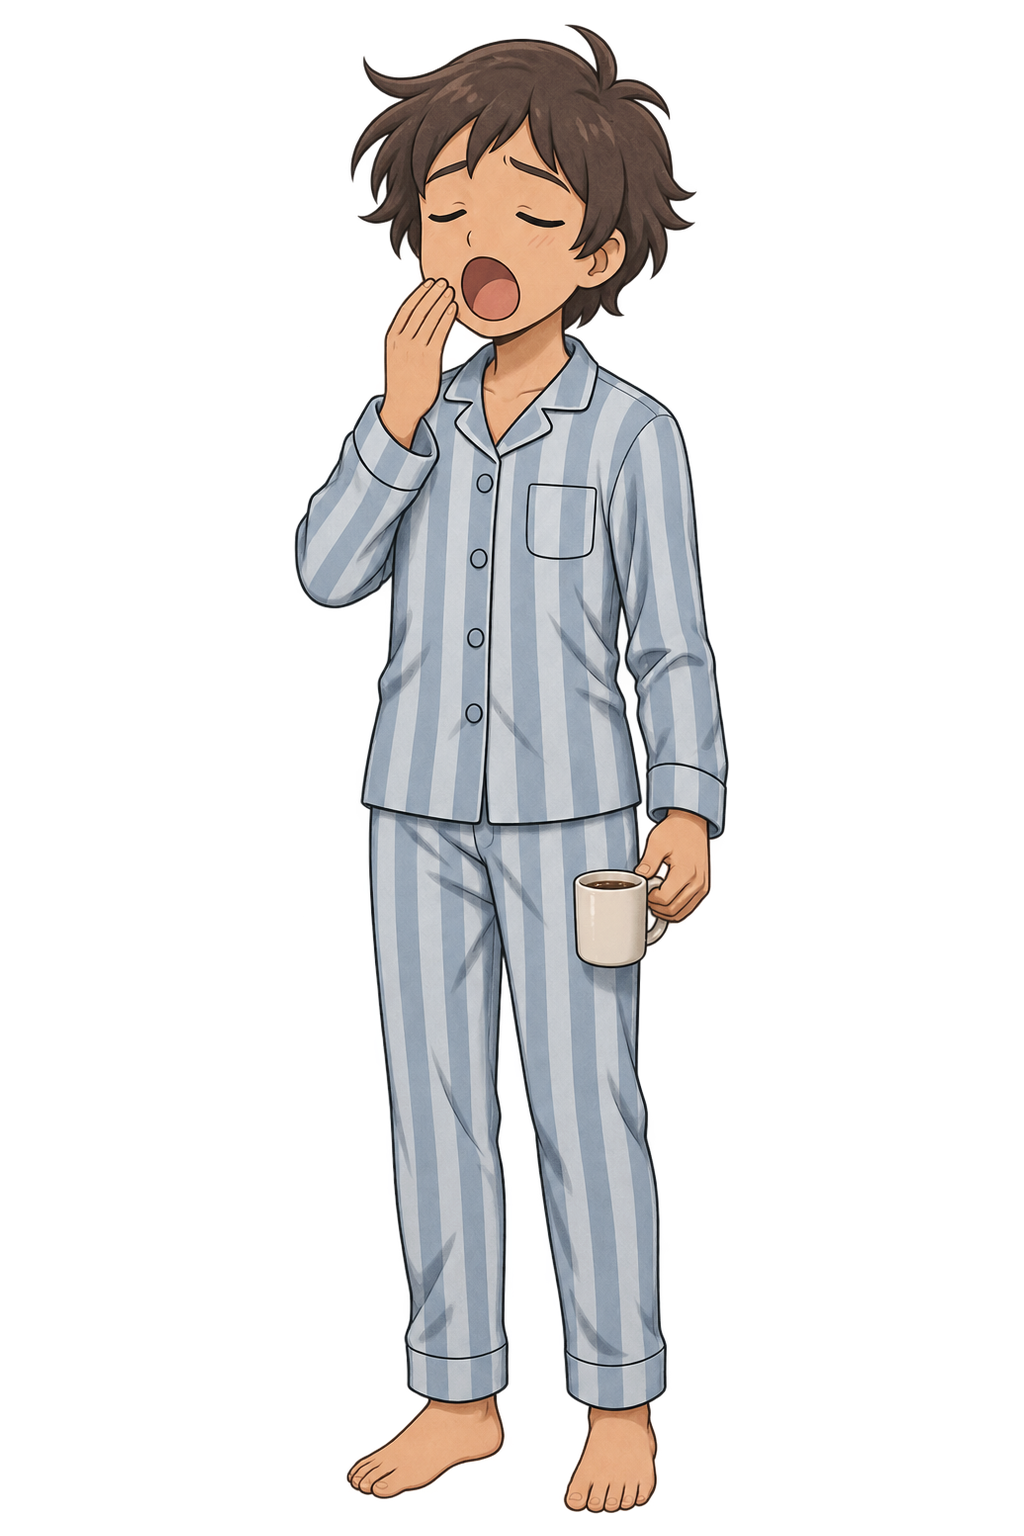
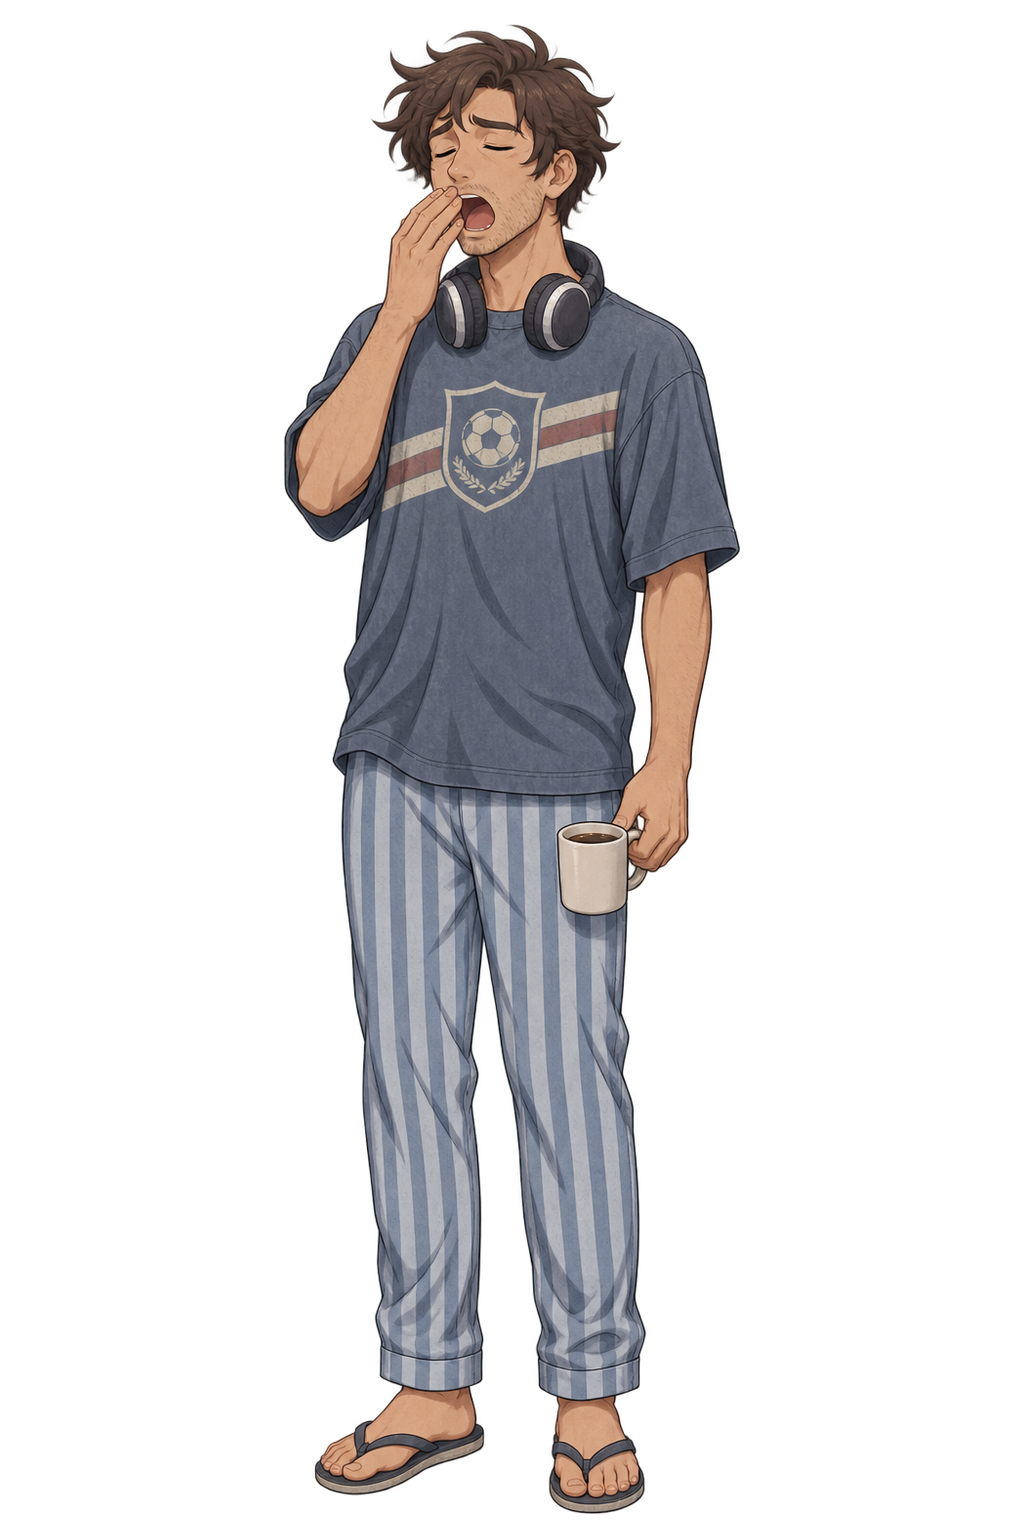
Refaz colega de república e Dra. Nathalia como adultos, adiciona expressões às doutoras e corrige pose séria do César

Changed region(s): [[0.25, 0.0, 0.7188, 1.0]]

diff --git a/tools/arte/galeria/modelo.html b/tools/arte/galeria/modelo.html
@@ -111,7 +111,7 @@ textarea { width: 100%; min-height: 140px; font: 14px/1.5 var(--mono); color: va
 
 <script>
 const DADOS = /*DADOS*/null;
-const CHAVE = "assets-revisao-v2";
+const CHAVE = "assets-revisao-v3";
 let marcados = new Set(), notas = "";
 try { const s = JSON.parse(localStorage.getItem(CHAVE) || "{}"); marcados = new Set(s.m || []); notas = s.n || ""; } catch (e) {}
 function guardar() { try { localStorage.setItem(CHAVE, JSON.stringify({ m: [...marcados], n: notas })); } catch (e) {} }

diff --git a/tools/arte/montar_saude_v4.py b/tools/arte/montar_saude_v4.py
@@ -1,0 +1,113 @@
+"""Lote 4 da Saúde (feedback do usuário em 2026-11-02, segunda revisão da galeria).
+
+Feedback: "amigo e doutora [Nathalia] ainda parecem muito jovens e genéricos e não combinam muito bem com o estilo.
+A outra doutora está boa, mas talvez as 2 doutoras devessem ter mais alguma variação de expressão além da neutra.
+Developer [César] serious está segurando o celular de forma estranha; com os braços cruzados, pode assumir que o
+celular está no bolso."
+
+- amigo e doutora_2: redesenho com rosto e corpo adultos e traços próprios (não genéricos);
+- doutora_1 e doutora_2: poses novas serious, thinking e positive, com o rosto descrito por partes e uma referência
+  de expressão das rotas novas (mesma técnica do lote v3);
+- developer_test serious: braços cruzados, celular no bolso.
+
+Gera docs/arte/prompts/estilo-c-saude-v4.json e estilo-c-saude-v4-saidas.json. Rode a partir da raiz:
+    python tools/arte/montar_saude_v4.py
+"""
+import json, os
+
+RAIZ = os.path.abspath(os.path.join(os.path.dirname(__file__), "..", ".."))
+IMG = os.path.join(RAIZ, "game", "images").replace("\\", "/")
+REF = os.path.join(RAIZ, "docs", "arte", "referencias").replace("\\", "/")
+CH = f"{IMG}/characters"
+
+ESTILO = (
+    "Estilo C, IGUAL ao das imagens de referência de estilo: proporção de ADULTO com ~7,5 cabeças, ombros e mãos "
+    "naturais, o mesmo nível de detalhe nas roupas (costuras, dobras, sombras suaves de 1 tom), contorno escuro com "
+    "leve textura de lápis, cores suaves e levemente dessaturadas. Rosto de adulto: olhos de tamanho natural (não "
+    "olhos grandes de anime), maçãs do rosto e mandíbula definidas, sobrancelhas marcadas e expressivas. Nem realista "
+    "demais nem cartunesco. Sprite de visual novel: corpo inteiro em pé, do topo da cabeça aos pés, centralizado, "
+    "fundo totalmente transparente (PNG com alfa), sem sombra no chão, sem texto, retrato 2:3."
+)
+
+# Redesenhos: (id, imagem atual, prompt de identidade, referências de estilo/proporção)
+REDESENHOS = [
+    ("amigo__base", f"{CH}/amigo/base.png",
+     "A PRIMEIRA imagem é o colega de república do protagonista, mas ele está com cara de criança. Redesenhe-o como "
+     "um ADULTO de uns 26 anos, que faz mestrado e divide o apartamento: altura e ombros de adulto, rosto mais longo, "
+     "barba por fazer, cabelo castanho bagunçado de quem acabou de acordar, olheiras leves. Mantenha a cena: ele "
+     "boceja cobrindo a boca com uma mão e segura uma caneca de café na outra. Roupa com personalidade: calça de "
+     "pijama listrada azul (a base de hoje), camiseta larga e desbotada de um time de futebol de bairro (estampa sem "
+     "texto legível), chinelo de dedo, fone de ouvido grande pendurado no pescoço. As imagens seguintes são só "
+     "referência de ESTILO e PROPORÇÃO (não copie as pessoas delas).",
+     [f"{REF}/estilo-c-emily.png", f"{CH}/co_dev/neutral.png", f"{CH}/st_techlead/neutral.png"]),
+    ("doutora_2__neutral", f"{CH}/doutora_2/neutral.png",
+     "A PRIMEIRA imagem é a Dra. Nathalia, mas ela está jovem demais e genérica. Redesenhe-a como uma médica "
+     "pneumologista de uns 32 anos, prática e direta, que atende muitos pacientes por dia: rosto adulto com maçãs do "
+     "rosto definidas, olhos de tamanho natural, sardas leves, cabelo loiro-escuro preso num coque baixo com mechas "
+     "soltas e uma caneta enfiada no coque, brincos pequenos de pérola. Roupa: pijama cirúrgico verde-água por baixo "
+     "do jaleco branco aberto, estetoscópio no pescoço, máscara cirúrgica ABAIXADA no pescoço (rosto inteiro à "
+     "mostra), crachá do Instituto no jaleco, tênis brancos confortáveis e um tablet na mão. Pose: em pé, relaxada, "
+     "olhar direto, leve sorriso de canto. As imagens seguintes são só referência de ESTILO e PROPORÇÃO (não copie "
+     "as pessoas delas).",
+     [f"{REF}/estilo-c-emily.png", f"{CH}/doutora_1/neutral.png", f"{CH}/co_mentora/neutral.png"]),
+]
+
+# Poses novas das doutoras: corpo, rosto descrito por partes, referência de expressão (outra pessoa).
+POSES = {
+    "serious": ("braços cruzados ou segurando o objeto dela junto ao peito, peso numa perna, postura firme",
+                "sobrancelhas BAIXAS e franzidas, inclinadas para o centro (preocupação); olhar firme direto para a "
+                "frente; boca fechada em linha reta, cantos levemente para baixo", f"{CH}/st_qualidade/serious.png"),
+    "thinking": ("uma mão no queixo, a outra segurando o objeto dela, cabeça levemente inclinada",
+                 "uma sobrancelha erguida e a outra franzida (assimétricas); olhos semicerrados olhando para CIMA e "
+                 "para o LADO, não para a frente; lábios comprimidos e puxados para um canto", f"{CH}/st_mentora/thinking.png"),
+    "positive": ("explicando algo com uma mão aberta estendida à frente, a outra segurando o objeto dela",
+                 "sobrancelhas erguidas; olhos apertados de sorriso; sorriso aberto e caloroso mostrando os dentes",
+                 f"{CH}/st_mentora/neutral.png"),
+}
+DOUTORAS = {
+    "doutora_1": ("Dra. Michelle", "cabelo cacheado grisalho, jaleco branco, camisa lilás, calça bege, crachá do "
+                  "Instituto e prancheta", f"{CH}/doutora_1/neutral.png", None),
+    "doutora_2": ("Dra. Nathalia", "coque baixo loiro-escuro com caneta, sardas, pijama cirúrgico verde-água, jaleco, "
+                  "estetoscópio, máscara abaixada no pescoço e tablet", None, "doutora_2__neutral"),
+}
+
+tarefas, saidas = [], []
+for tid, atual, identidade, refs in REDESENHOS:
+    tarefas.append({"id": tid, "prompt": f"{identidade}\n\n{ESTILO}", "refs": [atual] + refs})
+    cid, pose = tid.split("__")
+    saidas.append({"id": tid, "kind": "sprite", "dest": f"images/characters/{cid}/{pose}.png",
+                   "portrait": f"images/characters/{cid}/portrait.png"})
+
+for cid, (nome, objetos, ancora_arquivo, ancora_tarefa) in DOUTORAS.items():
+    for pose, (corpo, rosto, ref_expr) in POSES.items():
+        tid = f"{cid}__{pose}"
+        prompt = (f"A PRIMEIRA imagem é {nome} na versão final: mantenha exatamente a identidade, o rosto, o cabelo, "
+                  f"a roupa, as cores e os acessórios ({objetos}). A SEGUNDA imagem é referência de EXPRESSÃO e "
+                  f"atitude (outra pessoa: não copie rosto nem roupa dela).\n\n"
+                  f"POSE: {corpo}.\nROSTO (obrigatório, bem diferente da primeira imagem): {rosto}.\n\n{ESTILO}")
+        t = {"id": tid, "prompt": prompt, "refs": [ref_expr]}
+        if ancora_tarefa:
+            t["depends"] = ancora_tarefa
+        else:
+            t["refs"].insert(0, ancora_arquivo)
+        tarefas.append(t)
+        saidas.append({"id": tid, "kind": "sprite", "dest": f"images/characters/{cid}/{pose}.png"})
+
+# César sério: a âncora (enthusiastic) já está aprovada e entra como primeira referência.
+tarefas.append({
+    "id": "developer_test__serious",
+    "prompt": ("A PRIMEIRA imagem é César na versão final: mantenha exatamente a identidade, o rosto, o boné, os "
+               "óculos, a barba, a roupa, o crachá e o smartwatch. A SEGUNDA imagem é a pose séria atual, que tem um "
+               "erro: ele segura o celular de um jeito estranho com os braços cruzados. Corrija: braços cruzados "
+               "sobre o peito com as DUAS mãos vazias e o celular de capinha colorida guardado no bolso da calça, só "
+               "a pontinha aparecendo. ROSTO: sobrancelhas BAIXAS, retas e aproximadas; olhar firme direto para a "
+               f"frente; boca fechada em linha reta, sem sorriso.\n\n{ESTILO}"),
+    "refs": [f"{CH}/developer_test/enthusiastic.png", f"{CH}/developer_test/serious.png"],
+})
+saidas.append({"id": "developer_test__serious", "kind": "sprite", "dest": "images/characters/developer_test/serious.png",
+               "portrait": "images/characters/developer_test/portrait.png"})
+
+d = os.path.join(RAIZ, "docs", "arte", "prompts")
+json.dump(tarefas, open(os.path.join(d, "estilo-c-saude-v4.json"), "w", encoding="utf-8"), ensure_ascii=False, indent=1)
+json.dump({"saidas": saidas}, open(os.path.join(d, "estilo-c-saude-v4-saidas.json"), "w", encoding="utf-8"), ensure_ascii=False, indent=1)
+print(len(tarefas), "tarefas:", [t["id"] for t in tarefas])

diff --git a/tools/arte/galeria/gerar_galeria.py b/tools/arte/galeria/gerar_galeria.py
@@ -34,16 +34,16 @@ SEM_USO = ["escritorio_interior_vazio", "empresa_cafe_manha"]
 NOTAS = {
     "co_supervisora": "Traço um pouco mais fino que o resto do elenco (a métrica de contorno ficou abaixo da média).",
     "co_solicitante": "Saturação alta por causa do colete laranja, não do estilo.",
-    "developer_test": "Revisado: crachá, smartwatch e celular de testes; expressões por pose.",
+    "developer_test": "Revisado: crachá, smartwatch e celular de testes; expressões por pose. Pose séria refeita: braços cruzados, celular no bolso.",
     "developer_coding": "Revisado: rosto no traço da Emily (menos realista); caneca e relógio; expressões por pose.",
     "developer_management": "Revisado: prancheta e crachá; expressões por pose.",
     "developer_ai": "Revisado: mochila com adesivos e pulseira; expressões por pose.",
     "developer_quality": "Revisado: brincos e pasta com post-its; expressões por pose.",
     "developer_project": "Revisado: relógio e notebook; expressões por pose.",
     "developer_security": "Revisado: sobrecamisa e crachá de acesso; expressões por pose.",
-    "doutora_1": "Revisado: crachá do Instituto e prancheta.",
-    "doutora_2": "Revisado: máscara abaixada no pescoço (rosto à mostra) e tablet.",
-    "amigo": "Revisado: proporção e caneca de café.",
+    "doutora_1": "Revisado: crachá do Instituto e prancheta. Novas expressões: séria (preocupada), pensativa e positiva.",
+    "doutora_2": "Refeita como médica de ~32 anos: coque com caneta, sardas, pijama cirúrgico verde-água, máscara abaixada e tablet. Novas expressões: séria, pensativa e positiva.",
+    "amigo": "Refeito como adulto de ~26 anos (mestrando): barba por fazer, camiseta de time de bairro, fone no pescoço, chinelo e caneca.",
 }
 CONTA = {}
 usados = {}
